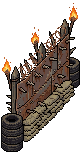
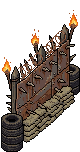
Barricade art: all 4 tiers PixelLab (80x152 box, on canvas bottom, matched wood), per-state tap areas, DEV barricade preview, front line gap 28->40, sw v349
Claude-Session: https://claude.ai/code/session_01ApSBA65kmjiwNdNQQrdUCu

Changed region(s): [[0.325, 0.0, 1.0, 0.9474], [0.85, 0.0263, 0.875, 0.0526]]

diff --git a/css/barricade.css b/css/barricade.css
@@ -121,8 +121,8 @@ body.glance-strip .barricade[data-state="solid"] .barricade-hit {
 }
 /* Tier 4 'reinforced' (2026-11-12): */
 .barricade[data-state="reinforced"] .barricade-hit {
-    clip-path: polygon(4px 57px, 34px 27px, 74px 4px, 80px 85px, 18px 152px, 7px 152px, 5px 151px, 1px 147px);
+    clip-path: polygon(4px 57px, 34px 29px, 74px 11px, 80px 92px, 18px 152px, 7px 152px, 5px 151px, 1px 147px);
 }
 body.glance-strip .barricade[data-state="reinforced"] .barricade-hit {
-    clip-path: polygon(2px 28px, 17px 13px, 37px 2px, 40px 42px, 9px 76px, 3px 76px, 2px 75px, 0px 73px);
+    clip-path: polygon(2px 28px, 17px 14px, 37px 5px, 40px 46px, 9px 76px, 3px 76px, 2px 75px, 0px 73px);
 }

diff --git a/sw.js b/sw.js
@@ -15,7 +15,7 @@
  * edited CSS/JS) so returning users pick up the update instead of serving a
  * stale cached shell forever — the whole point of a version string here.
  */
-const CACHE_NAME = 'deadline-shell-v349';
+const CACHE_NAME = 'deadline-shell-v350';
 
 const APP_SHELL = [
     './',
